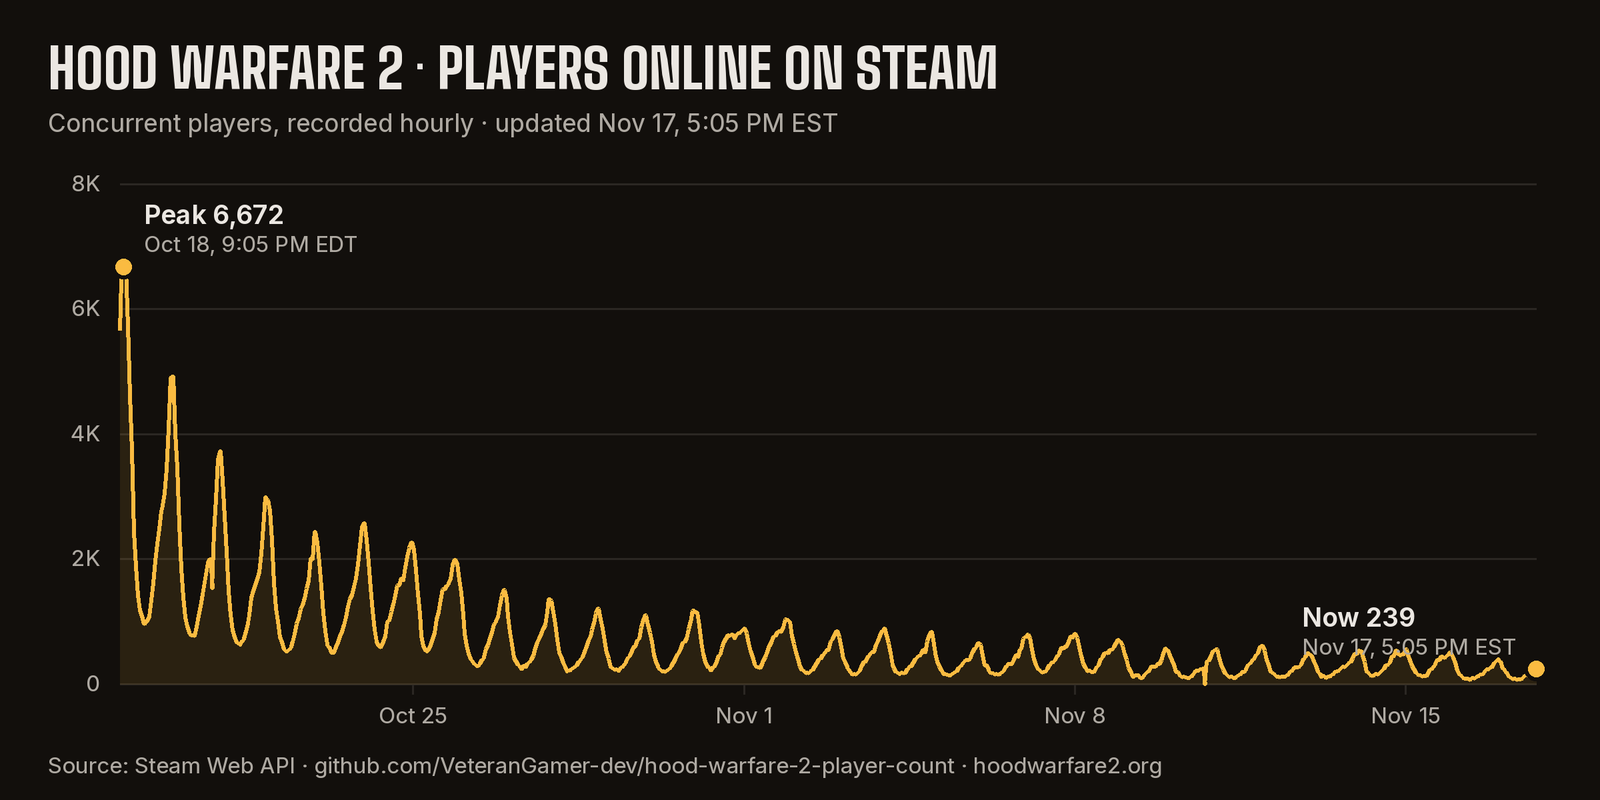
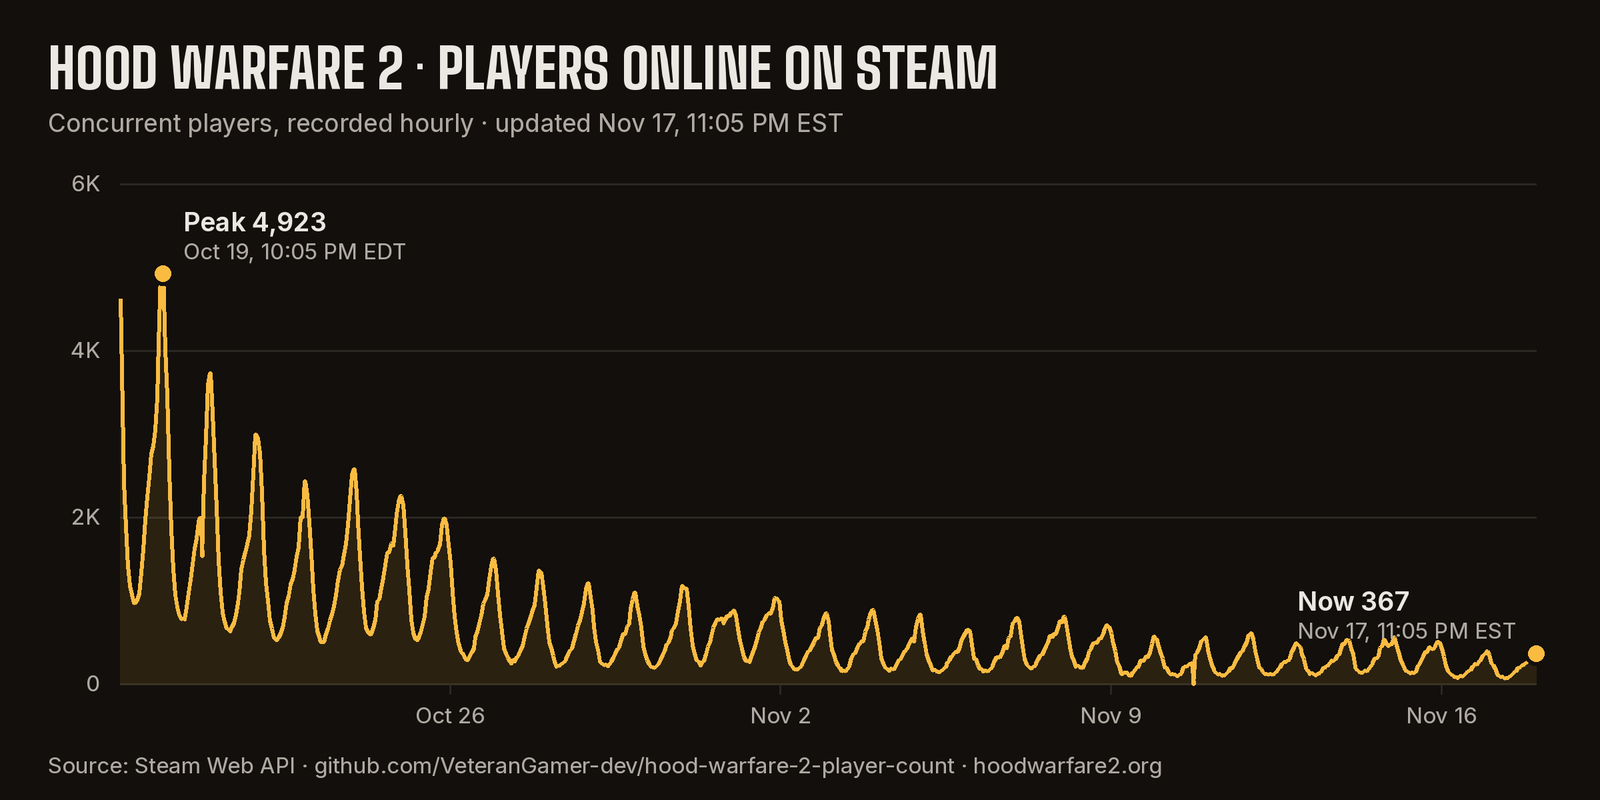
Sync: latest 2026-11-18T04:05:06Z,367,steam_api

diff --git a/README.md b/README.md
@@ -7,11 +7,11 @@ How many people are playing [Hood Warfare 2](https://store.steampowered.com/app/
 <!-- stats:start -->
 | | Players | When (US Eastern) |
 |---|---:|---|
-| Latest reading | **239** | Nov 17, 2026, 5:05 PM EST |
-| Peak in the last 24 hours | 396 | Nov 16, 2026, 10:05 PM EST |
+| Latest reading | **367** | Nov 17, 2026, 11:05 PM EST |
+| Peak in the last 24 hours | 379 | Nov 17, 2026, 10:05 PM EST |
 | Highest reading recorded | 15,058 | Oct 13, 2026, 10:05 PM EDT |
 
-861 readings since Oct 12, 2026, 9:04 AM EDT.
+867 readings since Oct 12, 2026, 9:04 AM EDT.
 <!-- stats:end -->
 
 ## Before this tracker started
